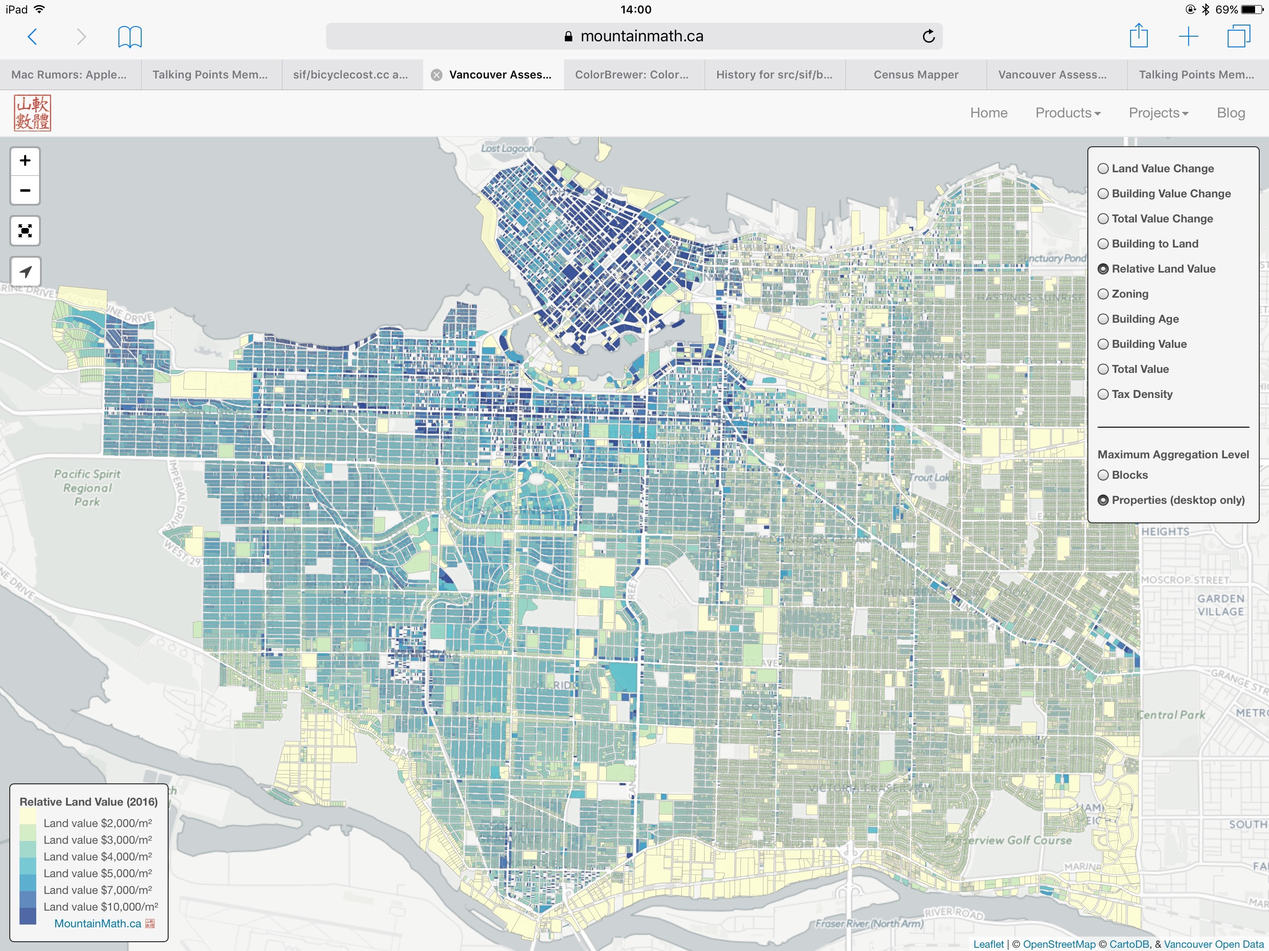
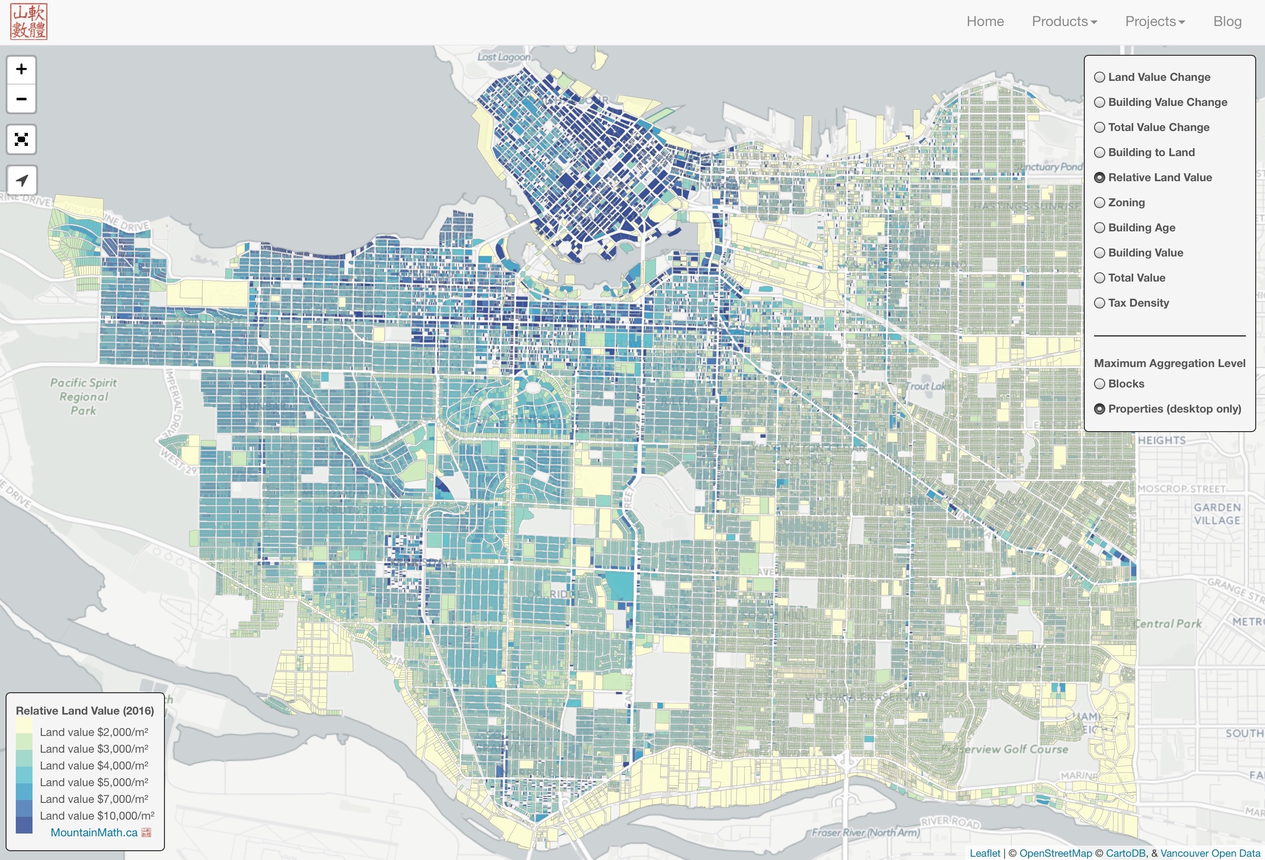
Site updated at 2016-01-18 00:41:29 UTC

diff --git a/blog/2016/01/17/updated-vancouver-assessment-data/index.html b/blog/2016/01/17/updated-vancouver-assessment-data/index.html
@@ -105,7 +105,7 @@
   </header>
 
 
-<div class="entry-content"><p><a href="https://mountainmath.ca/map/assessment?layer=4"><img  src="/images/relative_land.jpg" style="width:25%;float:right"></a>
+<div class="entry-content"><p><a href="https://mountainmath.ca/map/assessment?layer=4"><img  src="/images/relative_land.jpg" style="width:50%;float:right"></a>
 The friendly folks at
 <a href="http://vancouver.ca/your-government/open-data-catalogue.aspx">Vancouver Open Data</a> just
 <a href="https://twitter.com/VanOpenData/status/688060388190097408">updated their property assessment data</a> with the fresh 2016
@@ -118,7 +118,7 @@ to improve the mapping performance.</p>
 <!-- more -->
 
 
-<p><img  src="/images/map_menu.png" style="width:25%;float:left">The <a href="https://mountainmath.ca/map/assessment">interactive assessment map</a> offers several views. In the panel on the top
+<p><img  src="/images/map_menu.png" style="width:25%;margin-right:5px;float:left">The <a href="https://mountainmath.ca/map/assessment">interactive assessment map</a> offers several views. In the panel on the top
 right we can select how to view the data. It offers standard thematic maps for value change, total value, building value
 and building age and zoning. And there are some options that warrant more explanation:</p>
 
@@ -127,7 +127,7 @@ and building age and zoning. And there are some options that warrant more explan
 land value per m&sup2;. We can immediately spot the east-west land gradient, as well as how zoning effects land value.
 When zooming in we also see the effect of lot size on land value.</li>
 <li><a href="https://mountainmath.ca/map/assessment?layer=4"><em>Relative Value of Building</em>:</a>
-<a href="https://mountainmath.ca/map/assessment?layer=4"><img  src="/images/teardown.jpg" style="width:25%;float:right"></a>
+<a href="https://mountainmath.ca/map/assessment?layer=4"><img  src="/images/teardown.jpg" style="width:50%;float:right"></a>
 This map simply divides the building value
 by the total property value. There are many ways to interpret this map, my favourite is to use this as a &ldquo;Teardown Predictor&rdquo;.
 Essentially, as the percentage of the building value approaches zero the probability that it will get torn down in the

diff --git a/index.html b/index.html
@@ -111,7 +111,7 @@ property tax assessments. Time to run the &hellip;">
   </header>
 
 
-  <div class="entry-content"><p><a href="https://mountainmath.ca/map/assessment?layer=4"><img  src="/images/relative_land.jpg" style="width:25%;float:right"></a>
+  <div class="entry-content"><p><a href="https://mountainmath.ca/map/assessment?layer=4"><img  src="/images/relative_land.jpg" style="width:50%;float:right"></a>
 The friendly folks at
 <a href="http://vancouver.ca/your-government/open-data-catalogue.aspx">Vancouver Open Data</a> just
 <a href="https://twitter.com/VanOpenData/status/688060388190097408">updated their property assessment data</a> with the fresh 2016
